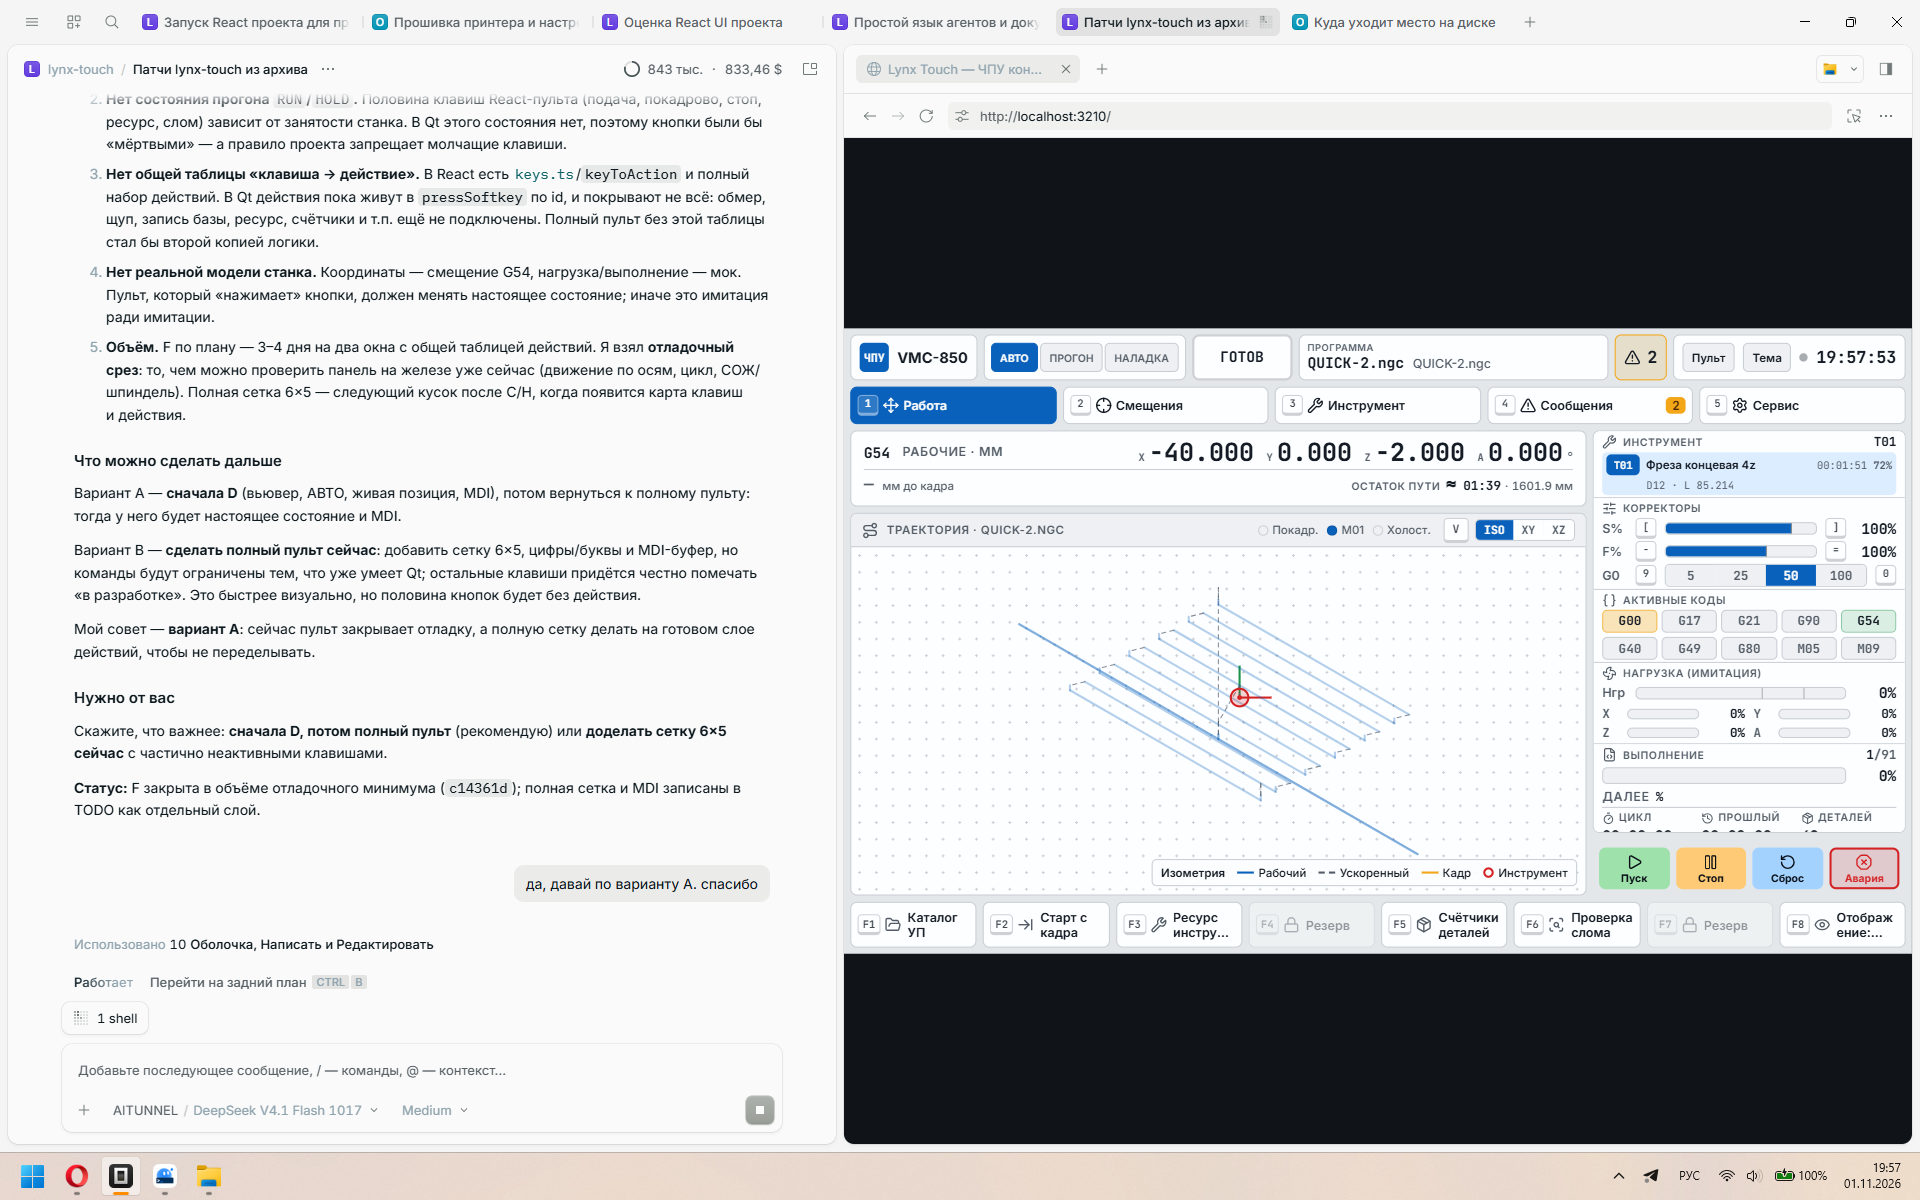
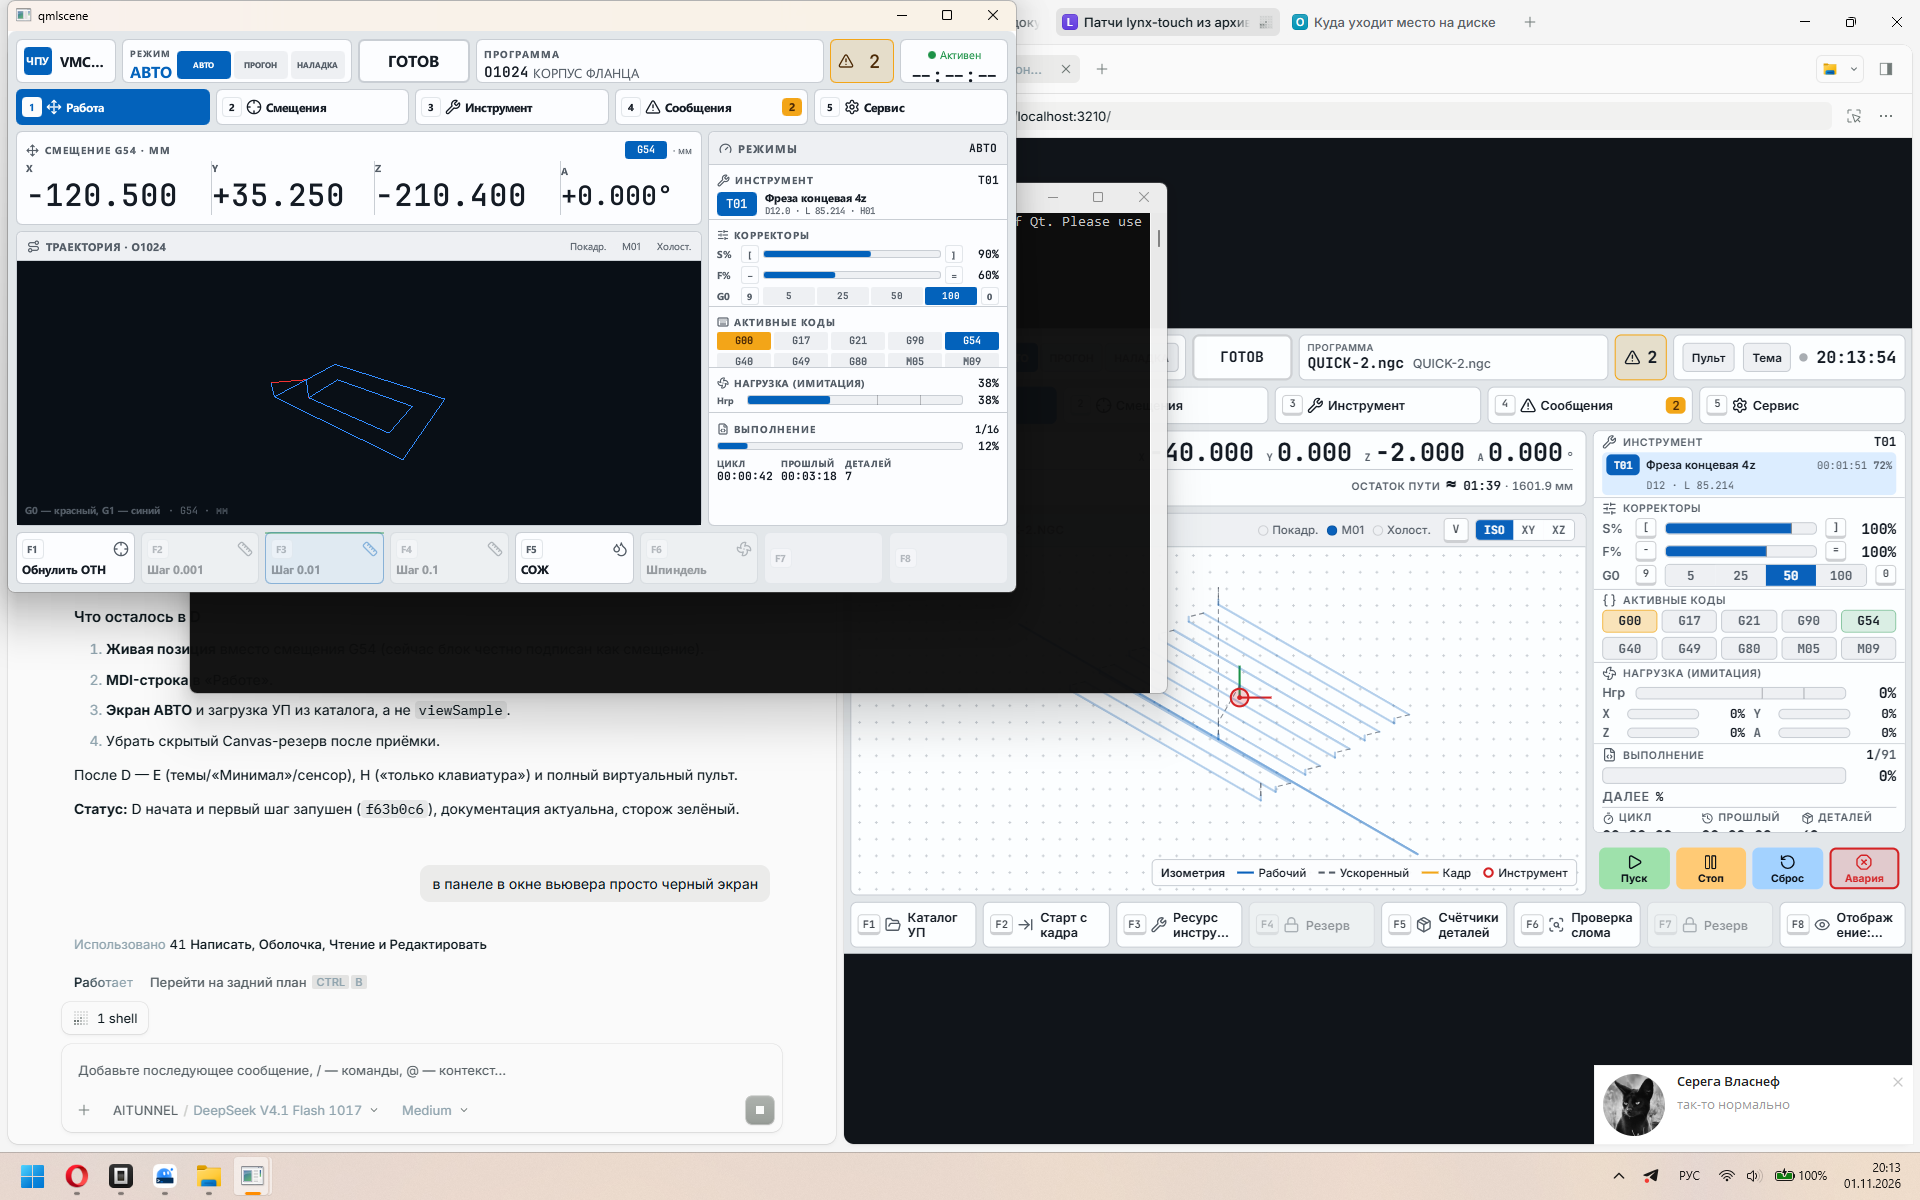
fix(qt-interface): point the embedded viewer camera at the toolpath
The Work viewer was black because the camera used (-24,-40) and looked away from the path. It now follows GcodeViewer3D.qml: pivot is path.center, yaw 35, pitch -32, position = pivot - dist * forward; the embedded and hidden 3D tabs use the same angle. The accepted screenshot is refreshed. Product 0.35.16, qt-interface 0.6.11.

diff --git a/apps/qt-interface/ViewerPane.qml b/apps/qt-interface/ViewerPane.qml
@@ -2,12 +2,22 @@ import QtQuick
 import QtQuick3D
 
 // The viewer pane of the Work screen: the same GcodeToolpath geometries the standalone viewer and
-// the hidden 3D tab use. The host owns the controller; this file only draws its geometries.
+// the hidden 3D tab use. The camera is the viewer's look-at construction: pivot is the path centre,
+// position = pivot - distance * forward.
 Item {
     id: pane
     objectName: "viewerPane"
     property Item host
     property var path: host ? host.toolpathObject : null
+
+    readonly property real yaw: 35
+    readonly property real pitch: -32
+    readonly property real dist: Math.max(60, (path ? path.radius : 40) * 1.8 + 30)
+    readonly property vector3d center: path ? path.center : Qt.vector3d(0, 0, 0)
+    readonly property vector3d fwd: Qt.vector3d(
+        -Math.sin(yaw * Math.PI / 180) * Math.cos(pitch * Math.PI / 180),
+        Math.sin(pitch * Math.PI / 180),
+        -Math.cos(yaw * Math.PI / 180) * Math.cos(pitch * Math.PI / 180))
 
     View3D {
         anchors.fill: parent
@@ -16,9 +26,11 @@ Item {
             backgroundMode: SceneEnvironment.Color
         }
         PerspectiveCamera {
-            position: Qt.vector3d(190, 150, 210)
-            eulerRotation: Qt.vector3d(-24, -40, 0)
-            clipNear: 1
+            position: Qt.vector3d(pane.center.x - pane.dist * pane.fwd.x,
+                                  pane.center.y - pane.dist * pane.fwd.y,
+                                  pane.center.z - pane.dist * pane.fwd.z)
+            eulerRotation: Qt.vector3d(pane.pitch, pane.yaw, 0)
+            clipNear: Math.max(0.05, pane.dist / 1000)
             clipFar: 4000
         }
         DirectionalLight {

diff --git a/apps/qt-interface/tests/tst_panel.qml b/apps/qt-interface/tests/tst_panel.qml
@@ -89,6 +89,9 @@ TestCase {
         verify(findByName(panel.item, "workPreview") !== null)
         verify(findByName(panel.item, "viewerPane") !== null)
         verify(findByName(panel.item, "workStatusColumn") !== null)
+        var viewer = findByName(panel.item, "viewerPane")
+        verify(viewer.path !== null)
+        verify(viewer.path.rapidGeometry !== null)
     }
 
     function test_debug_windows_exist() {

diff --git a/apps/qt-interface/main.qml b/apps/qt-interface/main.qml
@@ -2294,7 +2294,7 @@ Item {
                     }
                     PerspectiveCamera {
                         position: Qt.vector3d(190, 150, 210)
-                        eulerRotation: Qt.vector3d(-24, -40, 0)
+                        eulerRotation: Qt.vector3d(24, 40, 0)
                         clipNear: 1
                         clipFar: 4000
                     }

diff --git a/apps/qt-interface/main.cpp b/apps/qt-interface/main.cpp
@@ -48,7 +48,7 @@ int main(int argc, char *argv[])
 {
     QGuiApplication app(argc, argv);
     app.setApplicationName(QStringLiteral("Lynx Touch"));
-    app.setApplicationVersion(QStringLiteral("0.6.10"));
+    app.setApplicationVersion(QStringLiteral("0.6.11"));
 
     const QString root = repoRoot();
     const QString qmlFile = root + QStringLiteral("/apps/qt-interface/main.qml");

diff --git a/README.md b/README.md
@@ -12,7 +12,7 @@
 </p>
 
 <p align="center">
-  <img alt="Версия" src="https://img.shields.io/badge/версия-0.35.15-blue">
+  <img alt="Версия" src="https://img.shields.io/badge/версия-0.35.16-blue">
   <img alt="Лицензия" src="https://img.shields.io/badge/лицензия-Apache--2.0-green">
   <img alt="Платформы" src="https://img.shields.io/badge/платформы-Windows%20%7C%20Linux-lightgrey">
   <img alt="Стек" src="https://img.shields.io/badge/стек-React%20%7C%20Qt%2FQML%20%7C%20C%2B%2B%2FOCCT-informational">
@@ -44,12 +44,12 @@ QtQuick3D и OpenCASCADE.
 ## 🧩 Состав
 
 **Lynx Touch** — продукт из пяти независимо версионируемых проектов (манифест — [`projects.json`](projects.json)).
-Версия продукта — `0.35.15` ([`VERSION`](VERSION)); правила ведения — [`VERSIONING.md`](VERSIONING.md).
+Версия продукта — `0.35.16` ([`VERSION`](VERSION)); правила ведения — [`VERSIONING.md`](VERSIONING.md).
 
 | Проект | Версия | Стек | Что это |
 |---|---|---|---|
 | **react-interface** — [панель оператора](apps/react-interface) | `0.24.0` | Next.js · React · TypeScript | Основной интерфейс: экраны, логика станка, сенсорный и панельный режимы |
-| **qt-interface** — [Qt-порт](apps/qt-interface) | `0.6.10` | QML · C++ | Перенос интерфейса на Qt/QML (`main.qml`) и отдельное окно `lynx-panel.exe` для отладки |
+| **qt-interface** — [Qt-порт](apps/qt-interface) | `0.6.11` | QML · C++ | Перенос интерфейса на Qt/QML (`main.qml`) и отдельное окно `lynx-panel.exe` для отладки |
 | **gcode-viewer** — [3D-вьювер УП](modules/gcode-viewer) | `0.58.8` | QtQuick3D · C++ · OCCT | Траектория, деталь, инструмент, коллизии, поле съёма |
 | **cad-testdata** — [тестовые данные](data/cad-testdata) | `0.5.1` | данные · постпроцессор | Тестовые УП/модели и постпроцессор с тегами `UI_*` |
 | **quickprog** — [демо быстрого программирования](apps/quickprog) | `0.2.1` | C++ · stdlib | Операции (торцевание, карманы, сверление) → ходы → плоская УП с тегами `UI_*`; консоль, без Qt |

diff --git a/docs/PORT-QML.md b/docs/PORT-QML.md
@@ -6,7 +6,7 @@
 
 Редакция объединена 31.10.2026: инвентаризация и якоря — от предыдущей редакции плана,
 порядок работ, приёмка и решения — от lead'а. Состояние на день редакции: React `0.24.0`
-(продукт `0.35.15`), Qt `0.6.10`.
+(продукт `0.35.16`), Qt `0.6.11`.
 
 **Роли зафиксированы (01.11.2026).** На реальной стойке работает **Qt — это продукт**. React был
 демо-сценой: после исправления запуска и вставки CAM он **заморожен** — новые возможности в нём
@@ -35,7 +35,7 @@
 
 Якоря React — файл и имена; номера строк по состоянию на 31.10.2026. «В» — волна §4.
 
-| Узел панели | React `0.24.0` (источник) | Qt `0.6.10` (`main.qml`) | Разрыв | В |
+| Узел панели | React `0.24.0` (источник) | Qt `0.6.11` (`main.qml`) | Разрыв | В |
 |---|---|---|---|---|
 | Рабочие места | `types.ts` (`SETUP`/`TEST`/`RUN`), `WORKPLACE_LABEL` (`data.ts`), `SET_WORKPLACE` (`nav.ts`) | нет; только `machineMode` (`:24`) и `modeCycle` | нет рабочих мест | C |
 | Вкладки | 5: `TABS`/`TAB_LABEL` (`types.ts`) «Работа», «Смещения», «Инструмент», «Сообщения», «Сервис»; «Работа» объединяет `pos` и `prog` (`tabOfScreen`) | 7: `tab0`..`tab6` (`:967-1256`), «Позиция» и «Программа» раздельно, плюс «3D» | +2 вкладки | B |

diff --git a/VERSIONING.md b/VERSIONING.md
@@ -1,7 +1,7 @@
 # Руководство по версионированию и внесению изменений
 
 Этот документ — «гид»: как вносить изменения и вести версии в проекте
-**CNC Панель оператора**. Текущая версия — **0.35.15**.
+**CNC Панель оператора**. Текущая версия — **0.35.16**.
 
 Термины: словарь для человека — [`ROLES.md`](ROLES.md), раздел 9; в тексте термин расшифрован при первом
 употреблении (`AI_WORKFLOW.md`, раздел 0.2).
@@ -34,8 +34,8 @@
 Версия каждого проекта — в `projects.json` (`projects[].version`) и, где есть,
 в манифесте проекта (`package.json`, `modules/gcode-viewer/VERSION`).
 
-Текущее состояние: **продукт 0.35.15**; `react-interface` — **0.24.0**,
-`gcode-viewer` — **0.58.8**, `qt-interface` — **0.6.10**, `cad-testdata` — **0.5.1**, `quickprog` — **0.2.1**.
+Текущее состояние: **продукт 0.35.16**; `react-interface` — **0.24.0**,
+`gcode-viewer` — **0.58.8**, `qt-interface` — **0.6.11**, `cad-testdata` — **0.5.1**, `quickprog` — **0.2.1**.
 
 ### Опытные ветки и документация планов
 

diff --git a/docs/PORT-QML.en.md b/docs/PORT-QML.en.md
@@ -6,7 +6,7 @@ code and its run; this file holds the intent, anchors in both trees and acceptan
 
 This edition was merged on 31.10.2026: the inventory and anchors come from the previous edition,
 the order of work, acceptance and decisions come from the lead. State at the day of the edition:
-React `0.24.0` (product `0.35.15`), Qt `0.6.10`.
+React `0.24.0` (product `0.35.16`), Qt `0.6.11`.
 
 **Roles fixed (01.11.2026).** The real controller runs **Qt — it is the product**. React was a demo
 stage: after the start and CAM-insert fixes it is **frozen** — no new features are developed there.
@@ -35,7 +35,7 @@ dispatcher's decisions are in §7.
 
 React anchors are a file and a symbol; line numbers are as of 31.10.2026. "W" is the wave in §4.
 
-| Panel node | React `0.24.0` (source) | Qt `0.6.10` (`main.qml`) | Gap | W |
+| Panel node | React `0.24.0` (source) | Qt `0.6.11` (`main.qml`) | Gap | W |
 |---|---|---|---|---|
 | Workplaces | `types.ts` (`SETUP`/`TEST`/`RUN`), `WORKPLACE_LABEL` (`data.ts`), `SET_WORKPLACE` (`nav.ts`) | none; only `machineMode` (`:24`) and `modeCycle` | no workplaces | C |
 | Tabs | 5: `TABS`/`TAB_LABEL` (`types.ts`) Work, Offsets, Tool, Messages, Service; Work merges `pos` and `prog` (`tabOfScreen`) | 7: `tab0`..`tab6` (`:967-1256`), Position and Program separate, plus 3D | +2 tabs | B |

diff --git a/CHANGELOG.md b/CHANGELOG.md
@@ -5,6 +5,20 @@
 
 Формат и правила — в [`VERSIONING.md`](VERSIONING.md). Термины — [`ROLES.md`](ROLES.md), раздел 9.
 
+## 0.35.16 - 2026-11-01
+
+### Исправлено
+- **Чёрный экран встроенного вьювера.** Камера смотрела в пустоту: вместо `(-24, -40)` теперь
+  look-at как в `GcodeViewer3D.qml` — центр траектории, yaw 35, pitch -32, дистанция от радиуса.
+  В «Работе» видны красные/синие ходы, а не пустая сцена. Камера скрытой вкладки 3D исправлена
+  тем же углом.
+
+### Проверки
+- `check-qt-panel` — OK; живое окно показывает траекторию; полный сторож — OK.
+
+### Версии
+- продукт — `0.35.16`; `qt-interface` — `0.6.11`.
+
 ## 0.35.15 - 2026-11-01
 
 ### Добавлено
